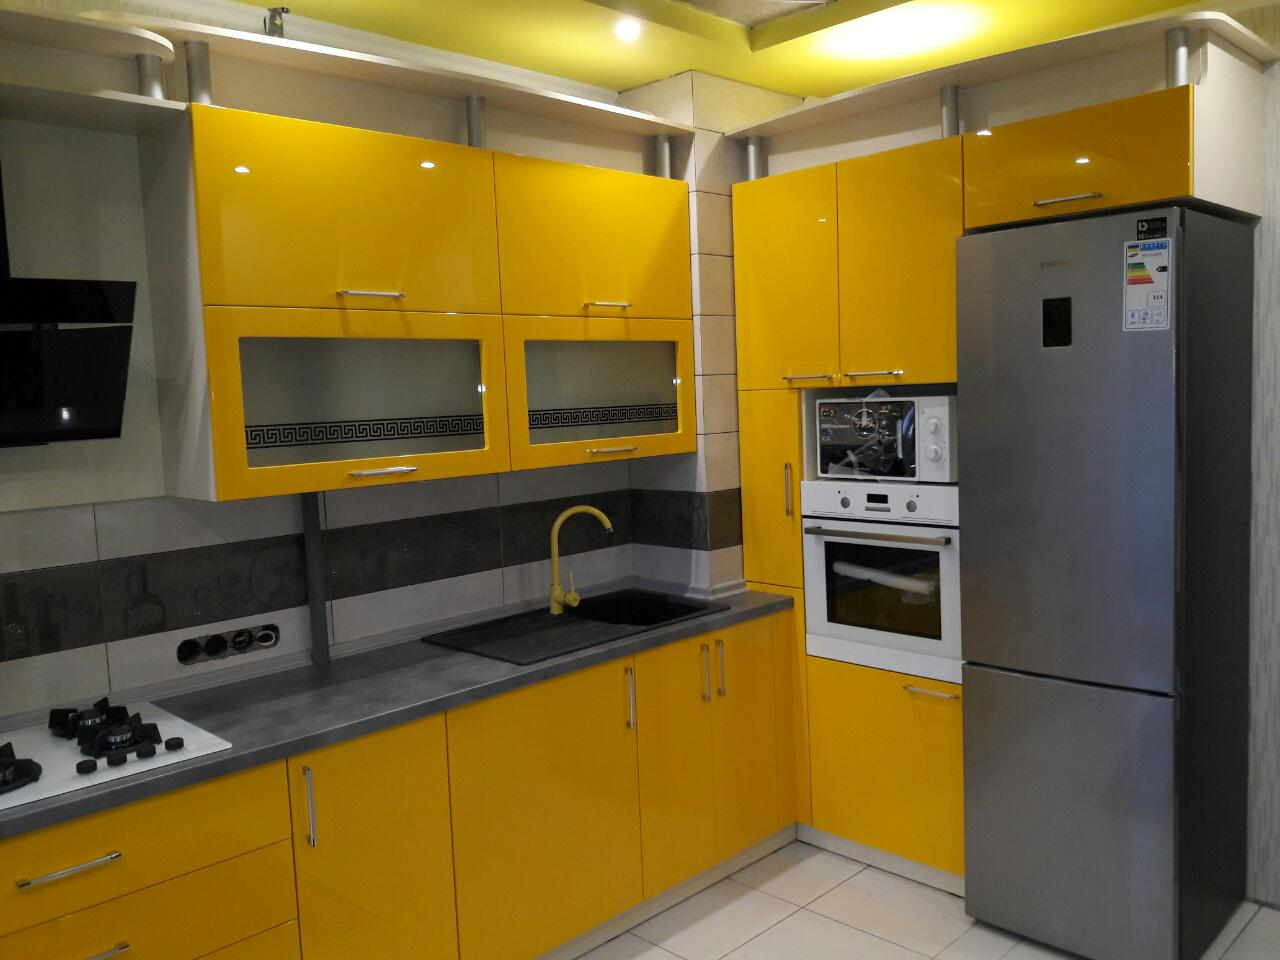
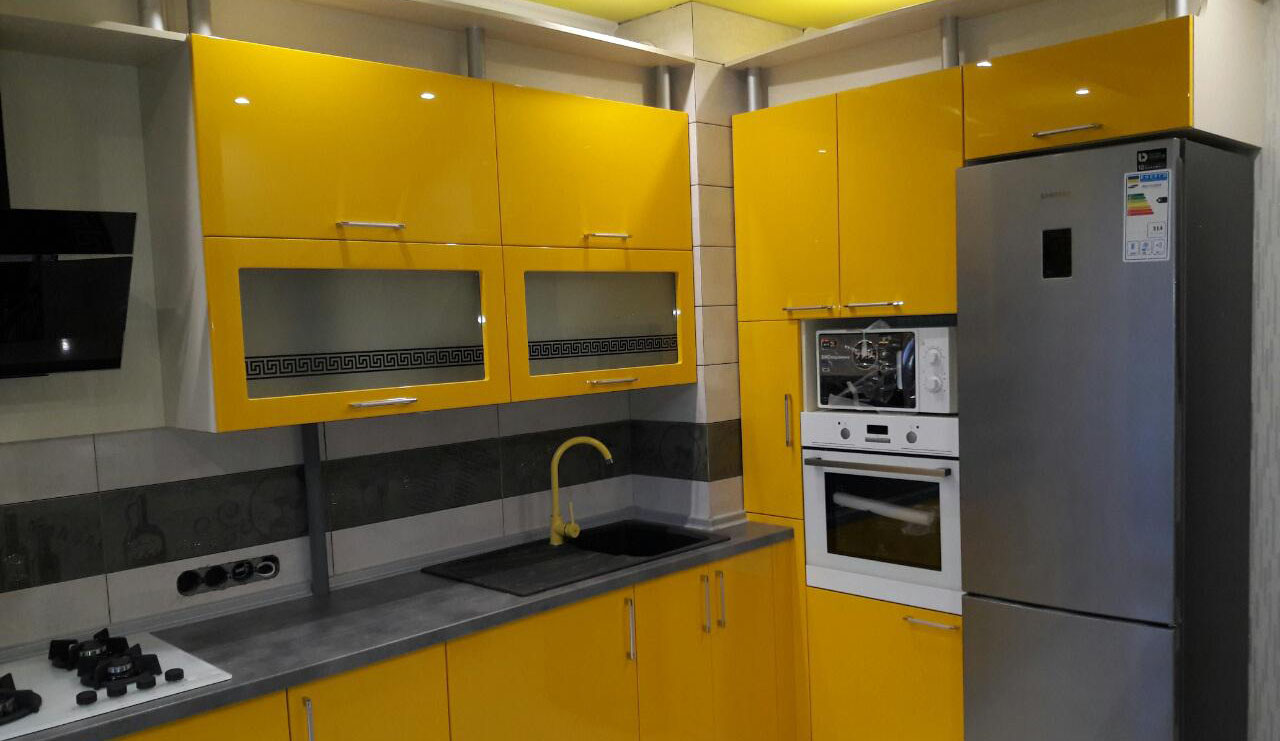
new

diff --git a/index.html b/index.html
@@ -100,13 +100,13 @@
                     </ol>
                     <div class="carousel-inner">
                         <div class="carousel-item active">
-                            <img src="img/background-start.jpg" class="d-block w-100" alt="...">
+                            <img src="img/black-kitchen-open.jpg" class="d-block w-100" alt="...">
                         </div>
                         <div class="carousel-item">
-                            <img src="img/background-start.jpg" class="d-block w-100" alt="...">
+                            <img src="img/yellow-kitchen.jpg" class="d-block w-100" alt="...">
                         </div>
                         <div class="carousel-item">
-                            <img src="img/background-start.jpg" class="d-block w-100" alt="...">
+                            <img src="img/black-kitchen.jpg" class="d-block w-100" alt="...">
                         </div>
                     </div>
                     <a class="carousel-control-prev" href="#carouselExampleIndicators" role="button"
@@ -141,11 +141,24 @@
                 <div class="col-lg-4 mr-auto text-center">
                     <img class="e-mail-logo" src="img/e-mail.png" alt="e-mail">
                     <i class="fas fa-envelope fa-3x mb-3 text-muted"></i>
-                    <a class="d-block" href="mailto:contact@yourwebsite.com">contact@yourwebsite.com</a>
+                    <a class="d-block" href="mailto:il_lub@i.ua">Напишіть нам </a>
                 </div>
             </div>
         </div>
-        <p class="iliuk-smart-design">/every/</p>
+        <div class="footer-end">
+            <div class="contacts-address">
+                <ul class="adress">
+                    <li>Адреса: м.Чернівці, п-кт Незалежності 131, ТЦ"ПРОСПЕКТ", 2 поверх, офіс 210.</li>
+                    <li>Години: Понеділок-Субота: 10.00 - 20.00 Неділя: Вихідний</li>
+                    <li>Контакти: 0(66)8122938 - Viber, 0(97)9345442 . E-mail: il_lub@i.ua </li>
+                </ul>
+            </div>
+            <div class="copyright">
+                <p class="iliuk-smart-design"> © 2020 <a href="mailto:stasseveryn@gmail.com"> Every-group </a></p>
+                <p class="iliuk-smart-design-two"> Всі права захищені.</p> 
+            </div>
+    
+        </div>
     </footer>
     <script src="https://cdn.jsdelivr.net/npm/bootstrap@5.0.0-beta1/dist/js/bootstrap.bundle.min.js"
         integrity="sha384-ygbV9kiqUc6oa4msXn9868pTtWMgiQaeYH7/t7LECLbyPA2x65Kgf80OJFdroafW"

diff --git a/css/index.css b/css/index.css
@@ -286,24 +286,24 @@ p.cardstyle {
 
 @media(max-width:600px) {
     .main-cards {
+        max-width: 320px;
+        height: auto;
         align-items: center;
         display: block;
-        padding: auto;
         background-color: #f8f9fa;
     }
     .card {
-        width: auto;
+        max-width: 270px;
         height: auto;
         display: block;
-        padding: 20px;
+        padding: 3px;
         align-items: center;
         margin-bottom: 170px;
     }
     .gallery-works {
         color: #95a730;
-        padding-top: 590px;
+        padding-top: 20px;
         padding-bottom: 20px;
-
     }
 }
 
@@ -311,7 +311,7 @@ p.cardstyle {
     margin-top: 70px;
     margin-bottom: 30px;
     align-items: center;
-    color: #0a0a0a;
+    color: rgba(23, 23, 24, 0.774);
     font-size: 32px;
     font-weight: 600;
 }
@@ -365,6 +365,34 @@ a.d-block {
     color: #f4623a;
     padding-bottom: 30px;
 }
-p.iliuk-smart-design {
-    padding-bottom: 40px;
+.footer-end{
+    display:-moz-inline-grid;
+    background-color: rgb(29, 29, 29);
+    padding-top: 10px;
 }
+p.iliuk-smart-design {
+    max-width:100%;
+    height:80px;
+    color: rgba(248, 147, 32, 0.87);
+    text-align:left;
+}
+p.iliuk-smart-design-two{
+    text-align:right;
+    color: rgba(248, 147, 32, 0.87);
+}
+.contacts-address{
+    color: rgba(44, 137, 243, 0.774);
+    display: block;
+}
+.copyright{
+    margin-top: 90px;
+    display: flex;
+    justify-content: space-around;
+}
+ul.adress {
+    line-height: 1.5;
+    margin: 5px;
+    text-align: center;
+    padding: 2px;
+}
+
